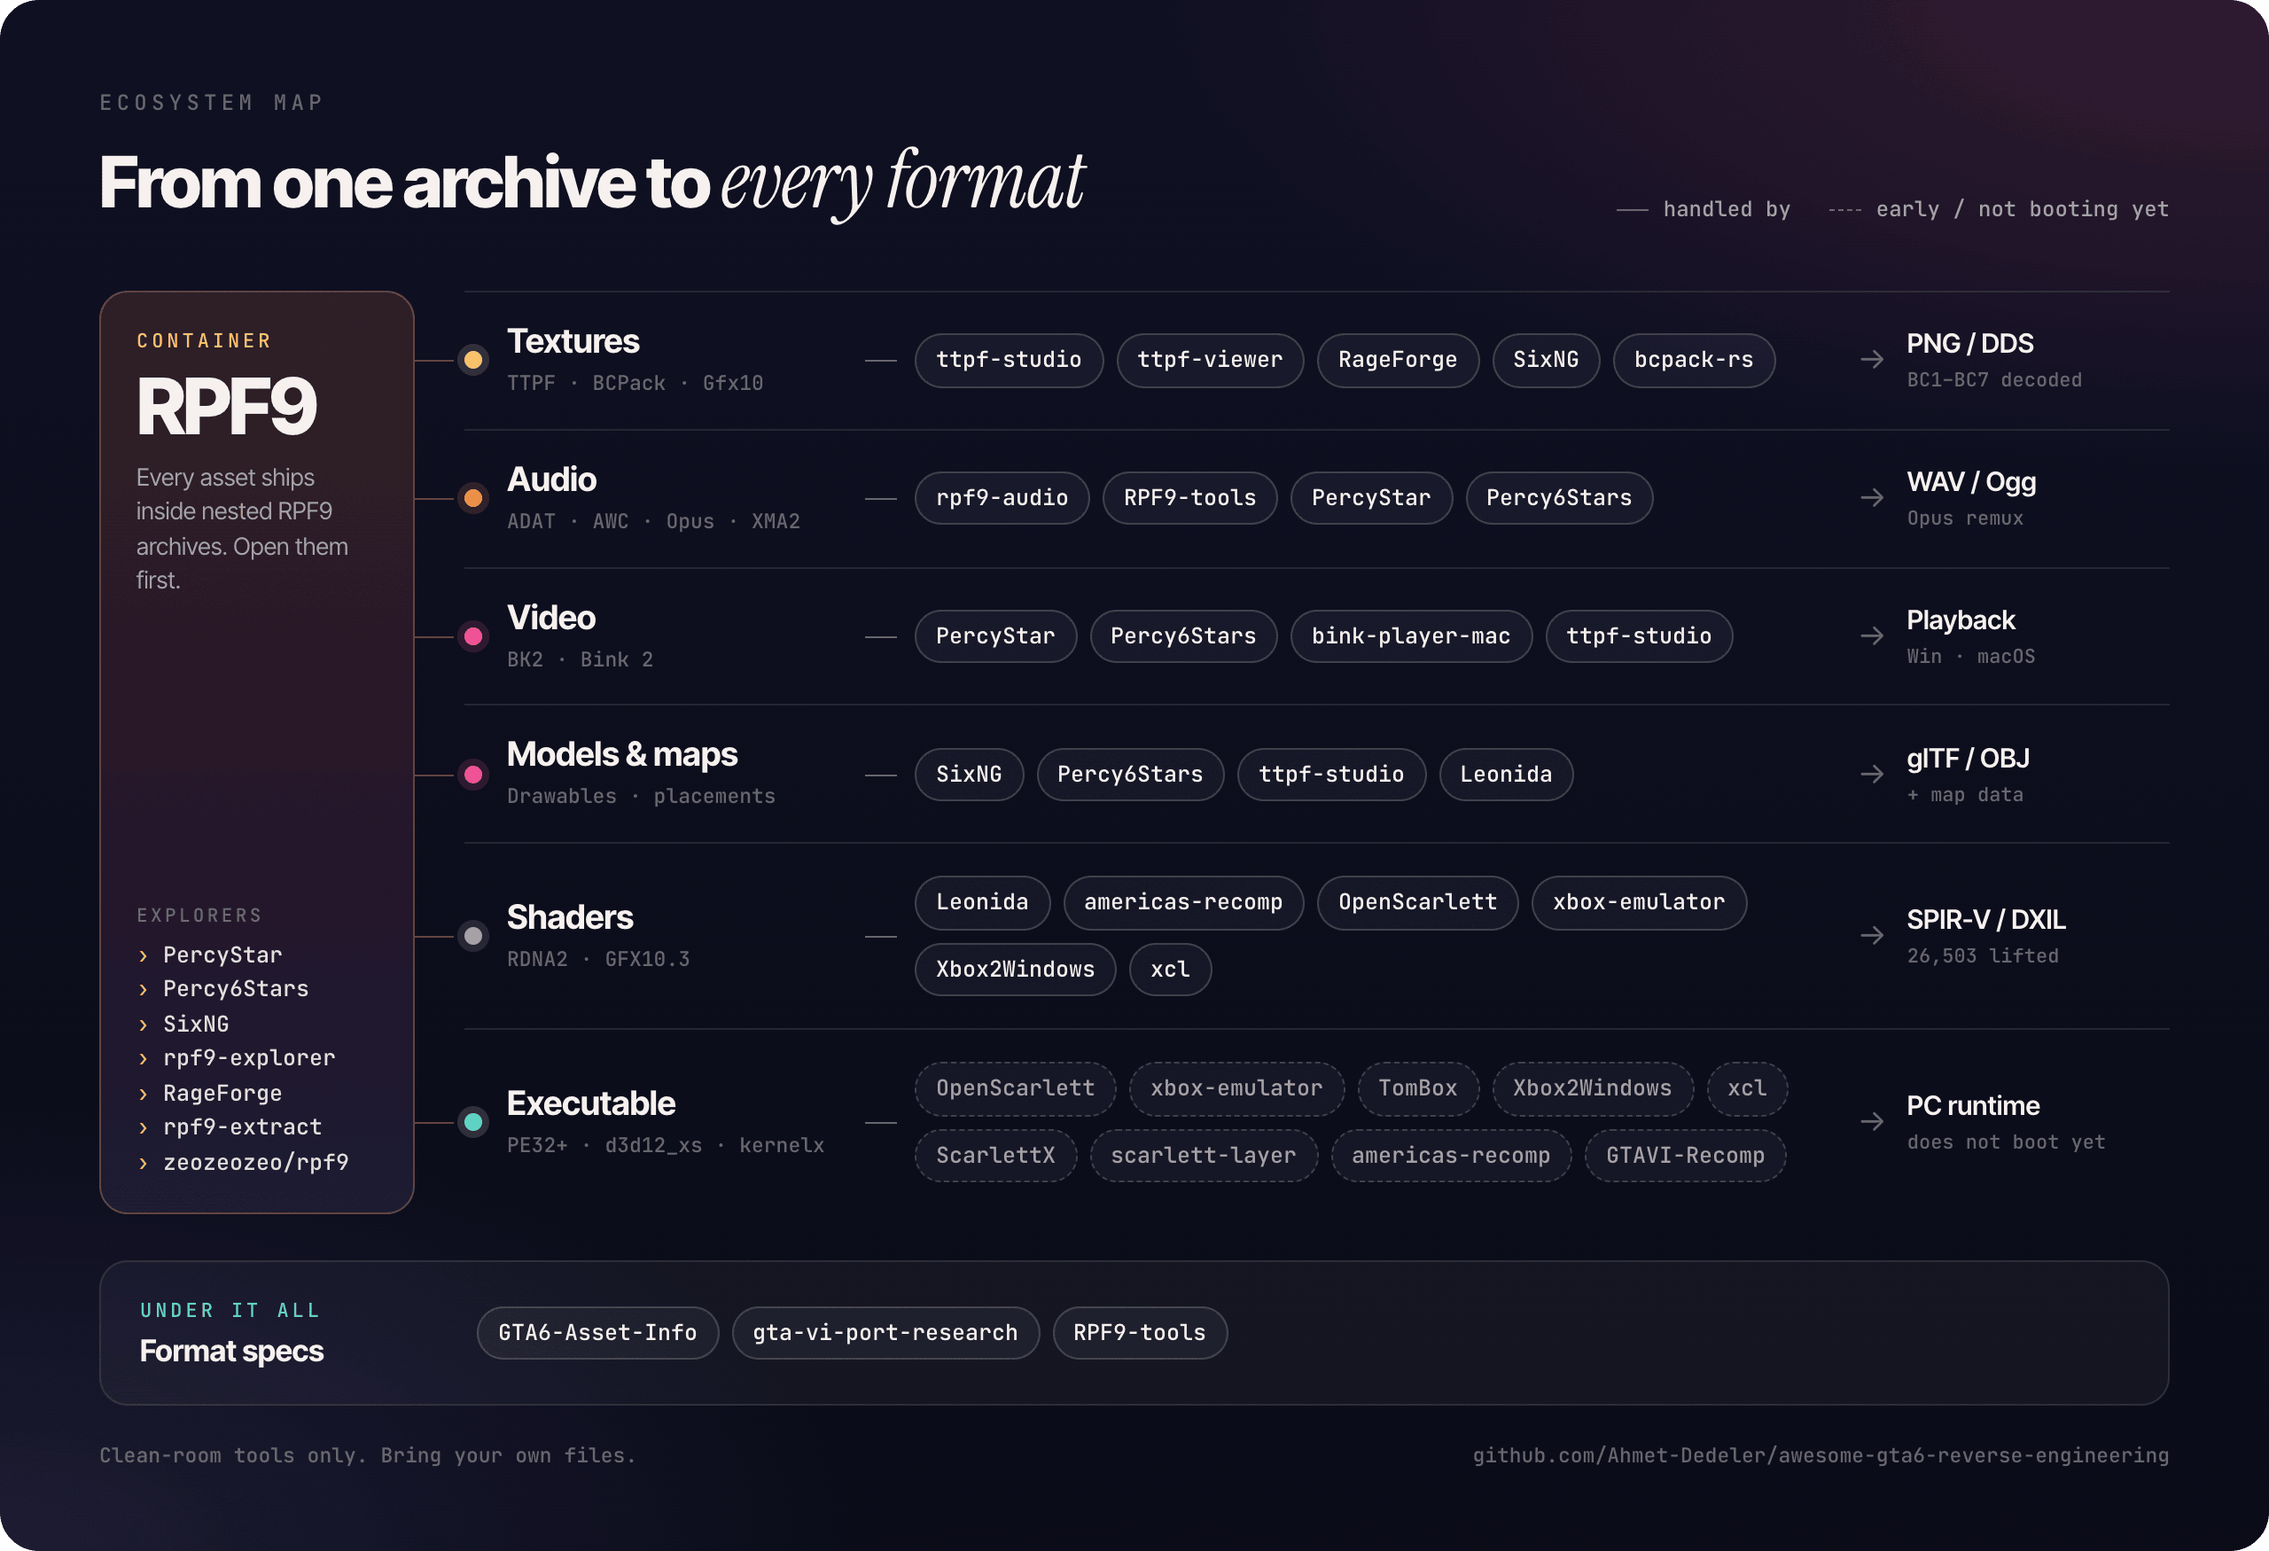
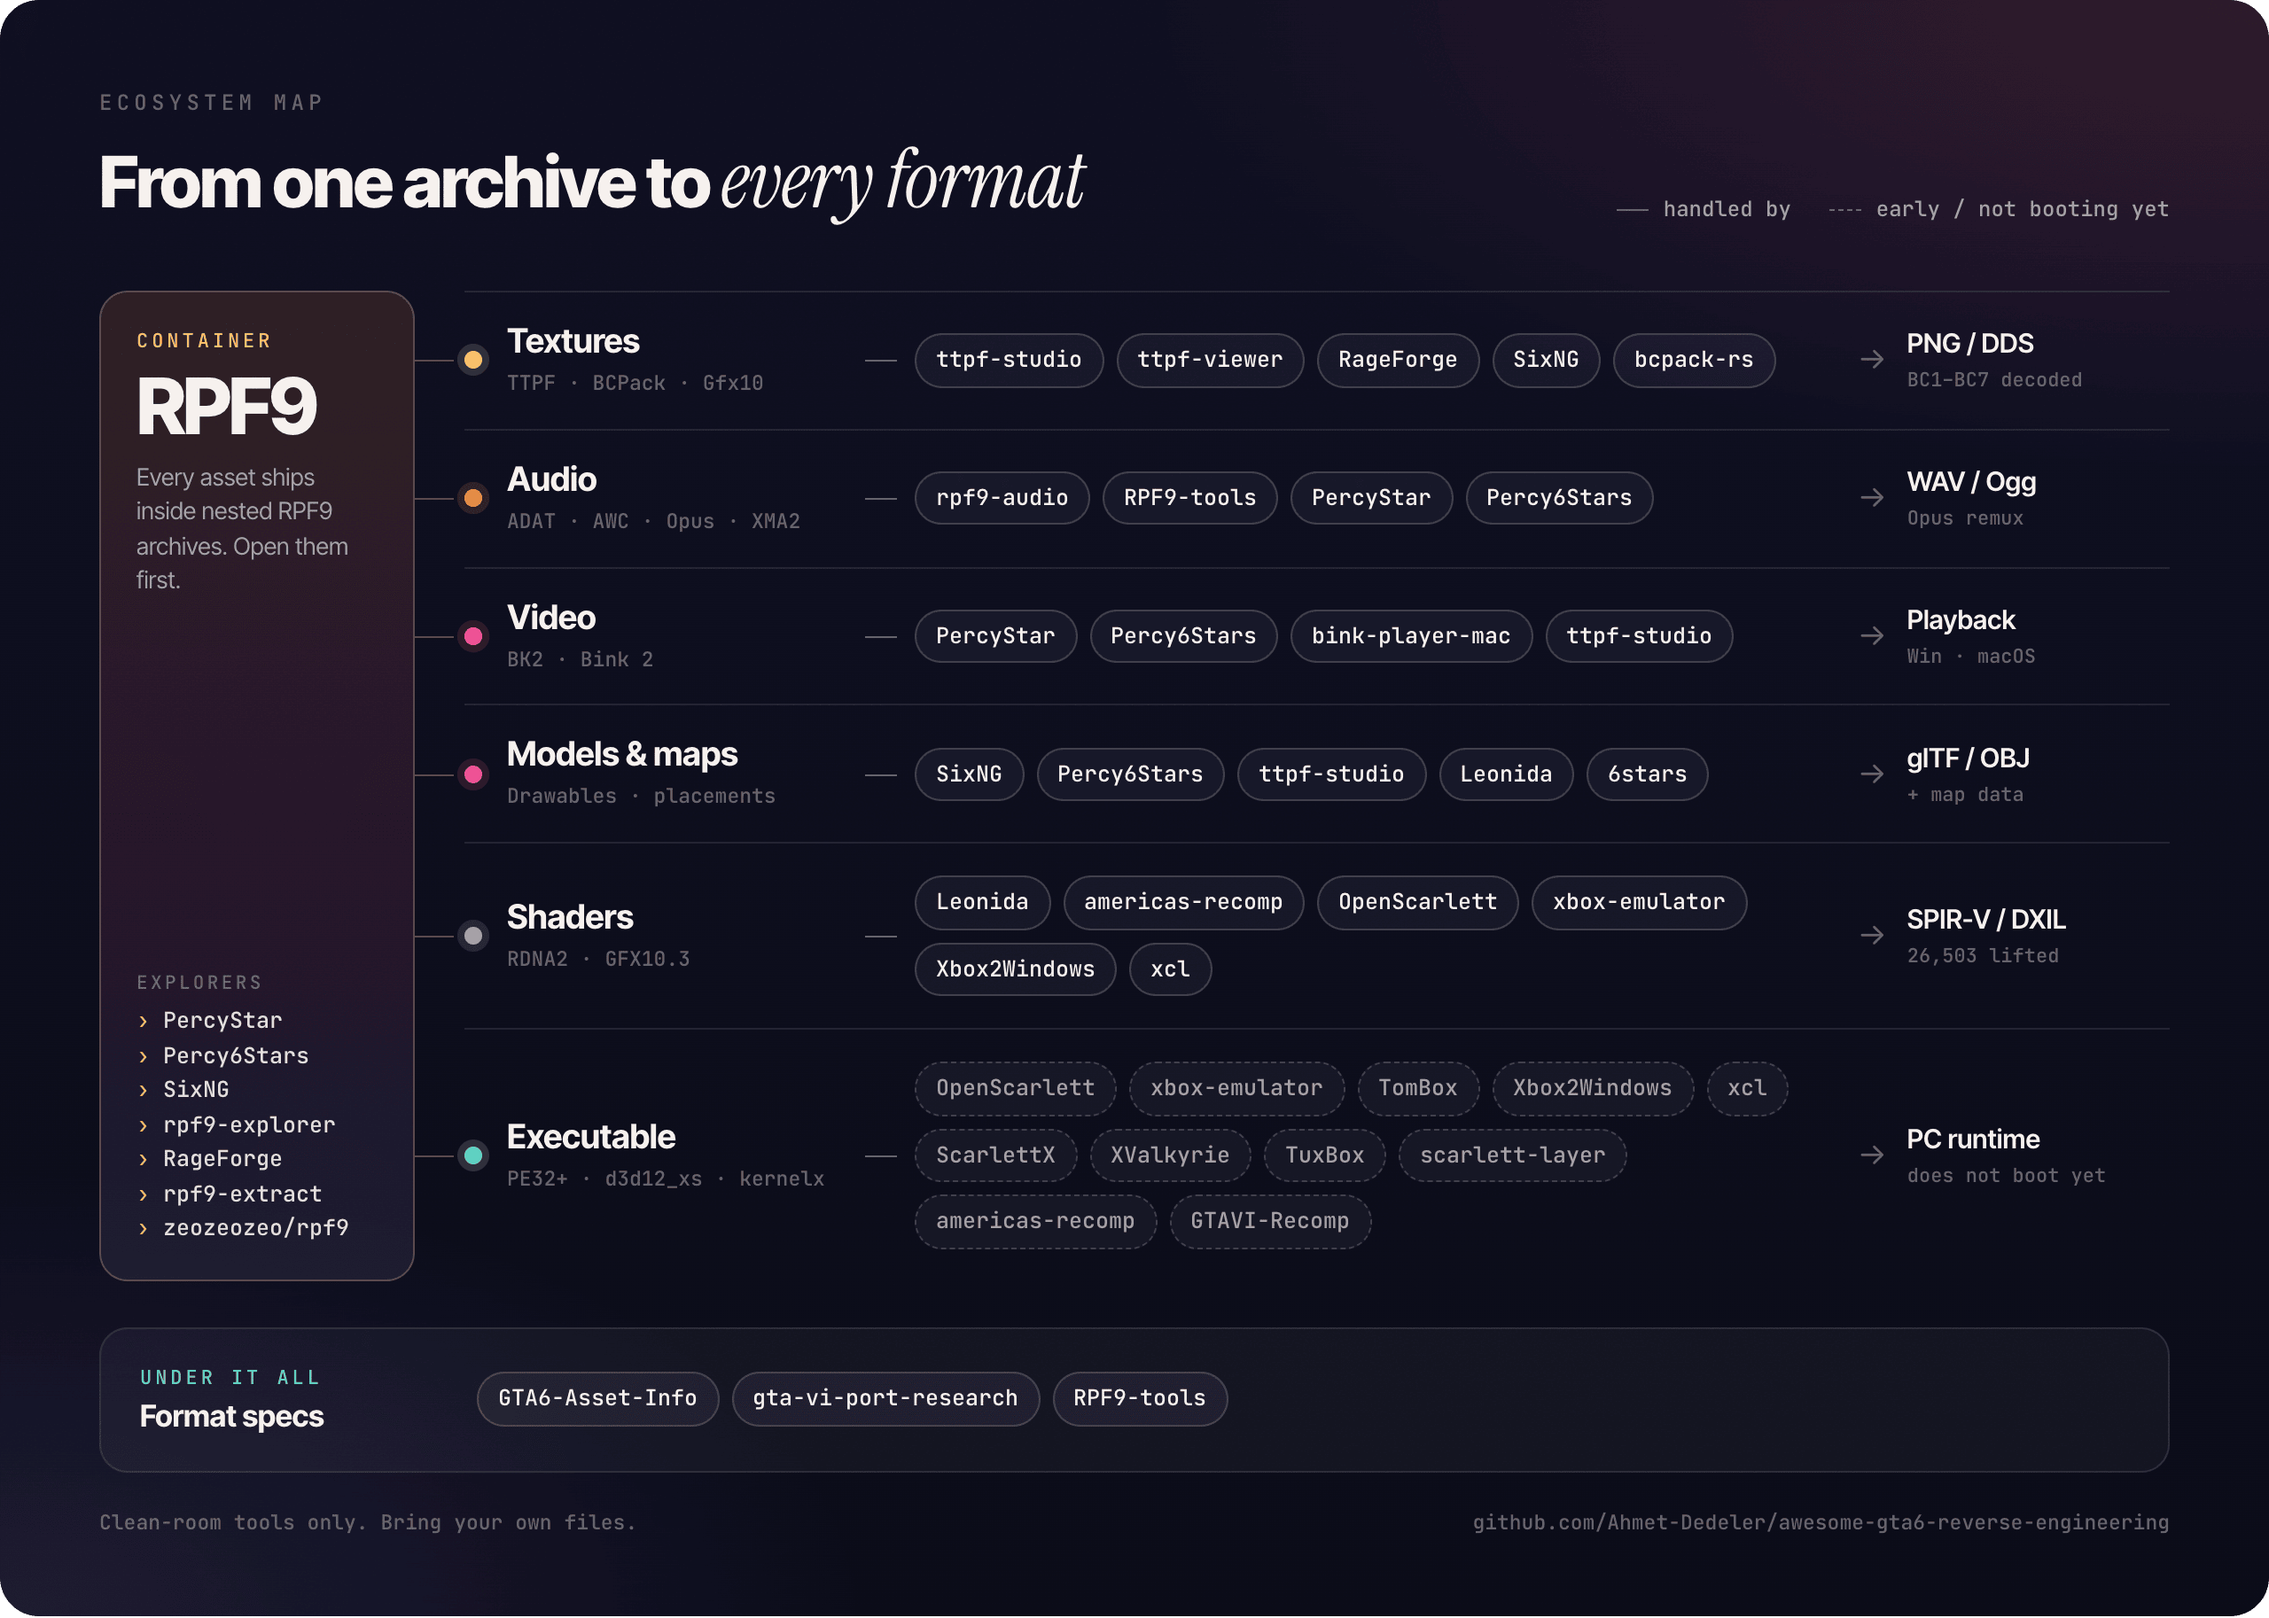
Add XValkyrie, TuxBox, 6stars; fake-exe warning; link PortWatch VI tracker

diff --git a/assets/src/ecosystem-map.html b/assets/src/ecosystem-map.html
@@ -156,7 +156,7 @@
 
     <div class="lane">
       <div class="fmt"><span class="dot" style="color:var(--magenta);background:var(--magenta)"></span><div><div class="name">Models &amp; maps</div><div class="spec">Drawables · placements</div></div></div>
-      <div class="tools"><span class="pill">SixNG</span><span class="pill">Percy6Stars</span><span class="pill">ttpf-studio</span><span class="pill">Leonida</span></div>
+      <div class="tools"><span class="pill">SixNG</span><span class="pill">Percy6Stars</span><span class="pill">ttpf-studio</span><span class="pill">Leonida</span><span class="pill">6stars</span></div>
       <div class="out"><div class="o">glTF / OBJ<small>+ map data</small></div></div>
     </div>
 
@@ -168,7 +168,7 @@
 
     <div class="lane">
       <div class="fmt"><span class="dot" style="color:var(--teal);background:var(--teal)"></span><div><div class="name">Executable</div><div class="spec">PE32+ · d3d12_xs · kernelx</div></div></div>
-      <div class="tools"><span class="pill wip">OpenScarlett</span><span class="pill wip">xbox-emulator</span><span class="pill wip">TomBox</span><span class="pill wip">Xbox2Windows</span><span class="pill wip">xcl</span><span class="pill wip">ScarlettX</span><span class="pill wip">scarlett-layer</span><span class="pill wip">americas-recomp</span><span class="pill wip">GTAVI-Recomp</span></div>
+      <div class="tools"><span class="pill wip">OpenScarlett</span><span class="pill wip">xbox-emulator</span><span class="pill wip">TomBox</span><span class="pill wip">Xbox2Windows</span><span class="pill wip">xcl</span><span class="pill wip">ScarlettX</span><span class="pill wip">XValkyrie</span><span class="pill wip">TuxBox</span><span class="pill wip">scarlett-layer</span><span class="pill wip">americas-recomp</span><span class="pill wip">GTAVI-Recomp</span></div>
       <div class="out"><div class="o">PC runtime<small>does not boot yet</small></div></div>
     </div>
   </div>

diff --git a/README.md b/README.md
@@ -32,7 +32,7 @@
 > **Clean-room research and open-source code only.** This list indexes reverse engineering tools, clean-room reimplementations, and format documentation. It does **not** host, link to, or endorse game executables, copyrighted assets, encryption keys, DRM bypass tools, or leaked build downloads. Every tool listed expects you to supply files from your own copy on disk.
 
 > [!CAUTION]
-> **There is no playable GTA VI for PC.** The circulating Xbox build has no game executable (`game_scarlett_master.exe` is missing), and no open-source project boots the game. Any "GTA 6 PC download", "Switch/PS5 emulator", installer, or prebuilt launcher `.exe` is fake at best and malware at worst. One public "launcher" template even ships a self-signed `CN=Rockstar Games, Inc.` certificate with its private key, so anyone can sign a malicious build with it. Build tools from source you have read.
+> **There is no playable GTA VI for PC.** The circulating Xbox build has no game executable (`game_scarlett_master.exe` is missing), and no open-source project boots the game. Any "GTA 6 PC download", "Switch/PS5 emulator", installer, or prebuilt launcher `.exe` is fake at best and malware at worst. One public "launcher" template even ships a self-signed `CN=Rockstar Games, Inc.` certificate with its private key, so anyone can sign a malicious build with it. Expect a wave of fake "leaked executable" downloads in the coming days; a scam kit built around a fake installer is reportedly being sold. Build tools from source you have read.
 
 ---
 
@@ -69,6 +69,7 @@ Tools and libraries for inspecting, browsing, salvaging, and exporting `RPF9` co
 | [rpatty-dev/PercyStar](https://github.com/rpatty-dev/PercyStar) | Rust | Windows | High-speed RPF9 archive explorer with D3D11 Bink2 video playback and ADAT Opus audio decoding. Now adds a World Map tab (heightmap, NavMesh, textured city blocks), a streaming 3D GPU world view, an animation / PSO browser, an AWC player, and vehicle configurations with swappable modular parts. |
 | [Ahmet-Dedeler/Percy6Stars](https://github.com/Ahmet-Dedeler/Percy6Stars) | Rust | macOS, Windows | Cross-platform fork of PercyStar adding macOS support, in-app BK2 video, AWC audio previews with real macOS playback, 3D model browsing, and a thumbnail gallery for `.ttpf` texture packs. Tracks upstream PercyStar features. |
 | [holdmysocks/SixNG](https://github.com/holdmysocks/SixNG) | Rust | Cross-platform (CLI + GUI) | Asset extractor for GTA VI Xbox Series `RPF9` archives. Exports models to `glTF`, textures, and map data, streams the whole map in a 3D view with BC textures, resolves LOD links and shader/parameter names, and decodes PSO files and vehicle tables (`GPL-3.0`). |
+| [meetox80/6stars](https://github.com/meetox80/6stars) | Swift, Metal | macOS | Native macOS engine that streams the world straight from your own RPF9 archives: the map with its full LOD hierarchy, interiors, vegetation, textures, timecycle lighting and weather, and a physically based sky and ocean. Ships an `rpftool` CLI too. Written from scratch; no license file yet. |
 | [breadbbbb/rpf9-explorer](https://github.com/breadbbbb/rpf9-explorer) | C# | Windows | RPF9 archive browser with model, texture, audio, and video previews, asset export, and saved replacement projects. v1.2 recovers more models and adds a clean-room BCPack decoder for BC1, BC3, BC4, and BC5 (BC6H/BC7 not yet). Used as a submodule by `Leonida`. |
 | [offs/rpf9-extract](https://github.com/offs/rpf9-extract) | Rust | Cross-platform (CLI) | Clean-room CLI extractor and inspector (`-n` list, `-v` header fields and PSIN tables). |
 | [nullbrik/RageForge](https://github.com/nullbrik/RageForge) | C# | Windows (GUI + CLI) | RPF9 archive inspector (entry counts, types, verification hashes) with a live `.ttpf` texture decoder (Gfx10 detiling + BC1-BC7), texture dictionary detection, a 3D model viewer, and (since 0.4) a "Load world" view that streams the whole map with terrain, water, and time of day. |
@@ -103,6 +104,8 @@ Projects translating Xbox Series X|S (`Scarlett`) or PS5 system libraries, memor
 | [realdody/americas-recomp (`xbox-series`)](https://github.com/realdody/americas-recomp/tree/xbox-series) | C++ | Xbox Series → PC | Tests whether AnyPS5's shader recompiler can run Xbox Series shaders. Valid SPIR-V so far: pixel 99.97% (strict), compute 99.6%, mesh 99.5%, geometry 100%, vertex 64.7% (the rest need the real vertex fetch shader), with GPU-vs-CPU bit-exact checks and `d3d12_xs` / `xmem` / `xgameruntime` stand-ins. Check the `xbox-series` branch (`main` only holds `LICENSE`). |
 | [californiaAlmonds/OpenScarlett](https://github.com/californiaAlmonds/OpenScarlett) | C++20 (`MIT`) | Xbox Series X\|S → Windows | Clean-room Scarlett translation layer with PE32+ APC hook loader, `d3d12_xs` COM proxy, `xg_xs` swizzling, `kernelx` memory aliasing, RDNA2 → SPIR-V/DXIL lifter, GDeflate/BCPack/XMA2/Bink2 codecs, and GDK shims. `v0.5.0-alpha` passes 51/51 automated tests and runs official Microsoft Xbox GDK samples unmodified; no commercial title yet. |
 | [Freminet/ScarlettX](https://github.com/Freminet/ScarlettX) | C++ | Xbox Series X\|S → Windows | Clean-room high-level emulator for GDK titles: PE64 loader, DirectStorage/XVD (unencrypted only), `d3d12_xs` → D3D12, GameInput, XGameSave, XAudio2. *Concept Destruction* and *Unicorn Overlord* are playable on a hardware GPU. No license file yet. |
+| [sammwyy/xvalkyrie](https://github.com/sammwyy/xvalkyrie) | C++20 (`GPL-3.0`) | Xbox One + Series X\|S → Windows | Wine-style translation layer for both console generations: maps the title's executable, runs its code natively, and answers `d3d12_xs` / `d3d11_x`, `kernelx`, and `xgameruntime` imports itself, with a generated per-function status page. Xbox One ERA titles reach menus and scenes. On Series, 37 of 40 public GDK samples draw, and retail titles start and present frames, but the picture is not right yet (1,786 of the 2,055 shaders one title creates translate). Releases are built by CI from the tagged source. |
+| [brcly/TuxBox](https://github.com/brcly/TuxBox) | Rust, Python | Xbox Series X\|S → Linux (Proton); Windows in progress | Native-first layer for unpacked, decrypted Series games, run on Linux under stock Proton Experimental. *The Matrix Awakens* runs from its menu through the highway chase into the open city (some surfaces still missing), with its Nanite shaders translated. Publishes per-library export and shader coverage. No license file yet. |
 | [jadeowaowa/scarlett-layer](https://github.com/jadeowaowa/scarlett-layer) | C++ (`Apache-2.0`) | Xbox Series X\|S → Windows | Loader + hook DLL that rewrites imports of unpacked, unencrypted GDK executables and routes them to `d3d12_xs`, DirectStorage, `xmem` / `xg_xs`, `xgameruntime`, and audio shims. 74 automated checks; no commercial title runs end to end yet. Rejects encrypted packages by design. |
 | [JamesCicada/GTAVI-Recomp](https://github.com/JamesCicada/GTAVI-Recomp) | C++ | PS5 → PC | GTA VI layer on top of AnyPS5: research, patches, and library work sent upstream. Refuses to work from game files, keys, or leaked material, so game-specific research is blocked until files can be studied lawfully; nothing has been tested with GTA VI. |
 | [boykopovar/AnyPS5](https://github.com/boykopovar/AnyPS5) | C++ (`GPL-2.0`) | PS5 → Windows / Linux | General relinker and PS5 system-library reimplementation (no emulation) with an RDNA2 → SPIR-V shader recompiler. Not GTA-specific, but it is the upstream that `americas-recomp` and `GTAVI-Recomp` build on. |
@@ -127,6 +130,9 @@ Standalone graphics and media tools built alongside GTA VI / RPF9 format explora
 
 - [Ahmet-Dedeler/weather-study](https://github.com/Ahmet-Dedeler/weather-study) (`TypeScript / WebGL2`) - Open-source WebGL2 weather engine and timecycle visualizer with volumetric clouds, ocean reflections, branching lightning, and 4K capture, inspired by RPF9 research.
 - [Ahmet-Dedeler/bink-player-mac](https://github.com/Ahmet-Dedeler/bink-player-mac) (`Objective-C / macOS`) - Native macOS Bink2 (`.bk2`) video player built alongside PercyStar and RPF9 exploration.
+
+
+**See also:** [PortWatch VI](https://github.com/4lwayz/portwatch-vi), a daily tracker of the PC port efforts that also flags clone networks and re-uploads of tracked projects.
 
 ---
 
